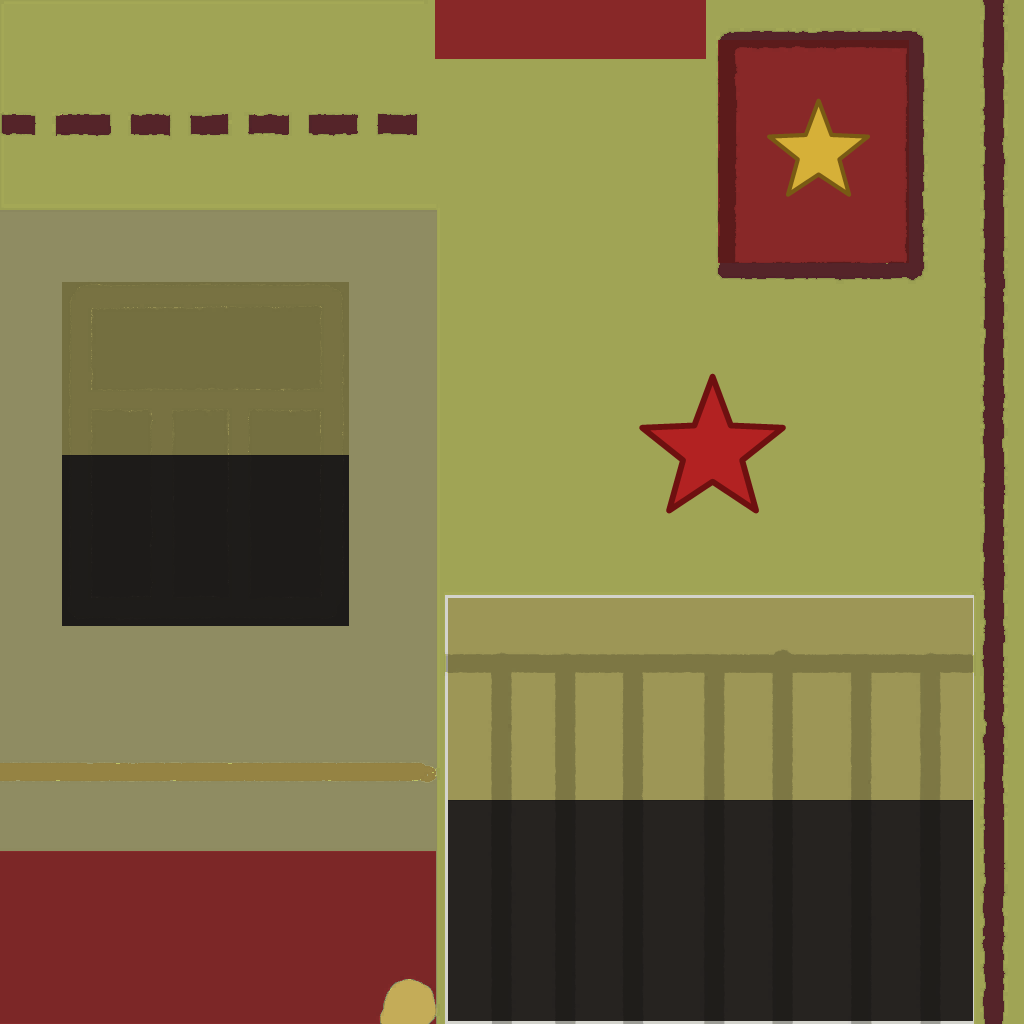
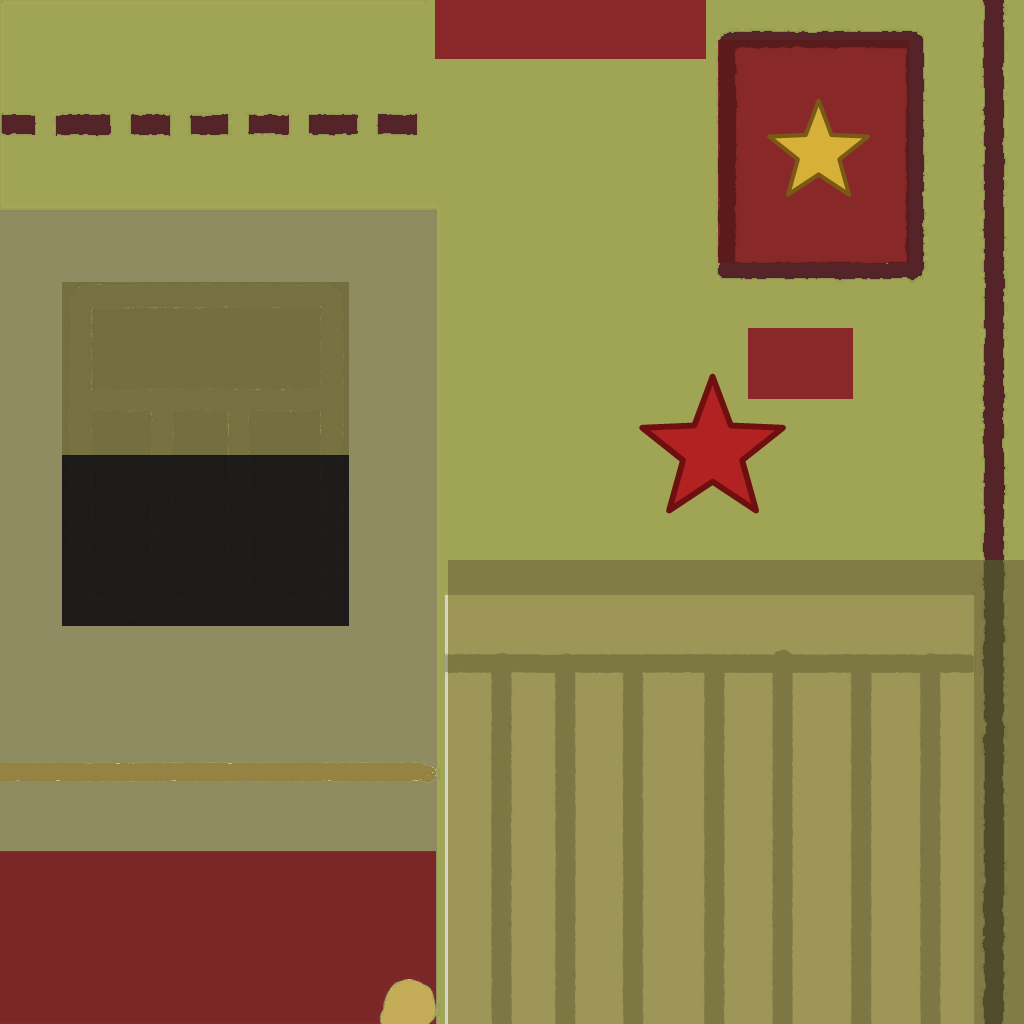
1.4.1: correcao com mapa UV do PERSONAGEM REAL (nao do boneco do passaporte)
- DESCOBERTA: personagem veste o fitMesh (4240v) e o boneco do passaporte usa
  outro mesh (3862v) com UVs diferentes - toda validacao anterior no boneco era
  invalida. Documentado como armadilha no AGENTS.md
- Novo pipeline: selfie do personagem real com camera propria do autotest +
  atlas-gradiente + shader unlit = leitura de UV do mesh nao-legivel por CPU
- Meiao do personagem sampleia faixa ate o canto (1023,1023): pintura caqui
  estendida ate a borda (adeus meiao branco); ombreira vermelha na costura do
  topo da manga (~800,360); cinto cai na zona vermelha (couro) - confirmados
  por selfie in-game em luz neutra
- Autotest: CharacterSelfie frente/costas, UnlitCharacter, mascaras de UV por
  submesh (uvmask_*.png), TestFitName

Changed region(s): [[0.4375, 0.5312, 1.0, 1.0], [0.7188, 0.3125, 0.8438, 0.4062]]

diff --git a/PeakAutoTest.cs b/PeakAutoTest.cs
@@ -29,6 +29,7 @@ public class PeakAutoTestPlugin : BaseUnityPlugin
     private ConfigEntry<bool> _testPassport;
     private ConfigEntry<string> _testFitName;
     private ConfigEntry<bool> _unlitDummy;
+    private ConfigEntry<bool> _unlitChar;
     private bool _soloClicked;
     private bool _boarded;
 
@@ -46,6 +47,7 @@ public class PeakAutoTestPlugin : BaseUnityPlugin
         _testPassport = Config.Bind("AutoTest", "TestPassport", false, "No Airport: veste o Fit_Soviet + bone, abre o passaporte, tira screenshot e fecha");
         _testFitName = Config.Bind("AutoTest", "TestFitName", "Fit_Soviet", "Nome do fit a vestir no TestPassport");
         _unlitDummy = Config.Bind("AutoTest", "UnlitDummy", false, "No TestPassport: boneco em shader unlit (leitura de UV, cores puras da textura)");
+        _unlitChar = Config.Bind("AutoTest", "UnlitCharacter", false, "No TestPassport: personagem REAL em shader unlit antes das selfies (leitura de UV)");
         if (!_enabled.Value)
         {
             Log.LogInfo("[AutoTest] desligado");
@@ -197,6 +199,10 @@ public class PeakAutoTestPlugin : BaseUnityPlugin
         else Log.LogError("[AutoTest] " + _testFitName.Value + " NAO esta no catalogo!");
         yield return new WaitForSeconds(1f);
         DumpCharacterRenderers("apos vestir");
+        DumpMeshUvMasks();
+        if (_unlitChar.Value) UnlitAllUnder(FindCharacterRoot(), "personagem");
+        yield return StartCoroutine(CharacterSelfie("char_selfie_frente.png", false));
+        yield return StartCoroutine(CharacterSelfie("char_selfie_costas.png", true));
         PassportManager pm = PassportManager.instance;
         if (pm != null)
         {
@@ -318,6 +324,154 @@ public class PeakAutoTestPlugin : BaseUnityPlugin
             }
         }
         catch (Exception e) { Log.LogWarning("[AutoTest] dump renderers falhou: " + e.Message); }
+    }
+
+    // fotografa o personagem REAL com uma camera propria (o que o jogador ve)
+    private static Transform FindCharacterRoot()
+    {
+        CustomizationRefs[] all = UnityEngine.Object.FindObjectsOfType<CustomizationRefs>();
+        for (int i = 0; i < all.Length; i++)
+        {
+            if (all[i] != null && all[i].transform.root.name.StartsWith("Character"))
+                return all[i].transform.root;
+        }
+        return null;
+    }
+
+    private static void UnlitAllUnder(Transform root, string tag)
+    {
+        try
+        {
+            if (root == null) return;
+            Shader unlit = Shader.Find("UI/Default");
+            if (unlit == null) unlit = Shader.Find("Unlit/Texture");
+            if (unlit == null) { Log.LogWarning("[AutoTest] sem shader unlit"); return; }
+            Renderer[] rr = root.GetComponentsInChildren<Renderer>(true);
+            for (int i = 0; i < rr.Length; i++)
+            {
+                Material[] ms = rr[i].materials;
+                for (int mi = 0; mi < ms.Length; mi++)
+                {
+                    if (ms[mi] == null) continue;
+                    Texture keep = ms[mi].mainTexture;
+                    ms[mi].shader = unlit;
+                    ms[mi].mainTexture = keep;
+                }
+            }
+            Log.LogInfo("[AutoTest] " + tag + " em modo unlit (" + rr.Length + " renderers)");
+        }
+        catch (Exception e) { Log.LogWarning("[AutoTest] unlit falhou: " + e.Message); }
+    }
+
+    private IEnumerator CharacterSelfie(string fileName, bool costas)
+    {
+        GameObject camGo = null;
+        CustomizationRefs target = null;
+        CustomizationRefs[] all = UnityEngine.Object.FindObjectsOfType<CustomizationRefs>();
+        for (int i = 0; i < all.Length; i++)
+        {
+            if (all[i] != null && all[i].transform.root.name.StartsWith("Character"))
+            { target = all[i]; break; }
+        }
+        if (target == null)
+        {
+            Log.LogWarning("[AutoTest] selfie: personagem nao encontrado");
+            yield break;
+        }
+        try
+        {
+            Transform root = target.transform.root;
+            camGo = new GameObject("PeakAutoTest_SelfieCam");
+            Camera cam = camGo.AddComponent<Camera>();
+            cam.depth = 99f;
+            cam.fieldOfView = 45f;
+            Vector3 center = root.position + Vector3.up * 0.62f;
+            Vector3 dir = costas ? -root.forward : root.forward;
+            camGo.transform.position = center + dir * 3.4f + Vector3.up * 0.1f;
+            camGo.transform.LookAt(center);
+        }
+        catch (Exception e)
+        {
+            Log.LogWarning("[AutoTest] selfie falhou: " + e.Message);
+            if (camGo != null) UnityEngine.Object.Destroy(camGo);
+            yield break;
+        }
+        yield return new WaitForSeconds(0.5f);
+        string shot = System.IO.Path.Combine(BepInEx.Paths.GameRootPath,
+            System.IO.Path.Combine("BepInEx", System.IO.Path.Combine("recon", fileName)));
+        ScreenCapture.CaptureScreenshot(shot);
+        Log.LogInfo("[AutoTest] selfie do personagem -> " + shot);
+        yield return new WaitForSeconds(1f);
+        UnityEngine.Object.Destroy(camGo);
+    }
+
+    // le direto do mesh: que regiao do atlas cada faixa de altura do corpo usa.
+    // Gera recon\uvmask_<quem>_sm<slot>.png (1024, fundo preto):
+    //   azul=pes, magenta=canela/meiao, amarelo=quadril, verde=torso, vermelho=gola/ombro
+    private static void DumpMeshUvMasks()
+    {
+        try
+        {
+            CustomizationRefs[] all = Resources.FindObjectsOfTypeAll<CustomizationRefs>();
+            for (int i = 0; i < all.Length; i++)
+            {
+                CustomizationRefs r = all[i];
+                if (r == null || r.mainRenderer == null || r.mainRenderer.sharedMesh == null) continue;
+                string who = r.transform.root.name.StartsWith("Character") ? "character"
+                           : (r.gameObject.scene.IsValid() ? "cena_" + r.transform.root.name : "prefab");
+                Mesh mesh = r.mainRenderer.sharedMesh;
+                Log.LogInfo("[AutoTest] uvmask " + who + ": mesh=" + mesh.name +
+                            " id=" + mesh.GetInstanceID() + " verts=" + mesh.vertexCount +
+                            " submeshes=" + mesh.subMeshCount);
+                Vector3[] verts = mesh.vertices;
+                Vector2[] uv = mesh.uv;
+                float ymin = float.MaxValue, ymax = float.MinValue;
+                for (int v = 0; v < verts.Length; v++)
+                {
+                    if (verts[v].y < ymin) ymin = verts[v].y;
+                    if (verts[v].y > ymax) ymax = verts[v].y;
+                }
+                float span = Mathf.Max(0.0001f, ymax - ymin);
+                for (int sm = 0; sm < mesh.subMeshCount; sm++)
+                {
+                    int[] tris = mesh.GetTriangles(sm);
+                    Texture2D mask = new Texture2D(1024, 1024, TextureFormat.RGB24, false);
+                    Color32[] px = new Color32[1024 * 1024];
+                    for (int p = 0; p < px.Length; p++) px[p] = new Color32(0, 0, 0, 255);
+                    for (int t = 0; t < tris.Length; t++)
+                    {
+                        int vi = tris[t];
+                        if (vi >= verts.Length || vi >= uv.Length) continue;
+                        float ny = (verts[vi].y - ymin) / span;
+                        Color32 c;
+                        if (ny < 0.08f) c = new Color32(60, 120, 255, 255);       // pes
+                        else if (ny < 0.30f) c = new Color32(255, 0, 255, 255);   // canela/meiao
+                        else if (ny < 0.52f) c = new Color32(255, 230, 40, 255);  // quadril
+                        else if (ny < 0.80f) c = new Color32(40, 220, 60, 255);   // torso
+                        else c = new Color32(255, 40, 40, 255);                   // gola/ombro
+                        int ux = Mathf.Clamp((int)(uv[vi].x * 1023f), 0, 1023);
+                        int uy = Mathf.Clamp((int)((1f - uv[vi].y) * 1023f), 0, 1023);
+                        for (int dy = -2; dy <= 2; dy++)
+                        {
+                            for (int dx = -2; dx <= 2; dx++)
+                            {
+                                int qx = ux + dx, qy = uy + dy;
+                                if (qx < 0 || qy < 0 || qx > 1023 || qy > 1023) continue;
+                                px[(1023 - qy) * 1024 + qx] = c;
+                            }
+                        }
+                    }
+                    mask.SetPixels32(px);
+                    mask.Apply();
+                    string f = System.IO.Path.Combine(BepInEx.Paths.GameRootPath,
+                        System.IO.Path.Combine("BepInEx", System.IO.Path.Combine("recon",
+                        "uvmask_" + who + "_m" + mesh.GetInstanceID() + "_sm" + sm + ".png")));
+                    System.IO.File.WriteAllBytes(f, ImageConversion.EncodeToPNG(mask));
+                    UnityEngine.Object.Destroy(mask);
+                }
+            }
+        }
+        catch (Exception e) { Log.LogWarning("[AutoTest] uvmask falhou: " + e); }
     }
 
     private static void SaveRT(RenderTexture rt, string file)

diff --git a/tools/MakeSovietTex.cs b/tools/MakeSovietTex.cs
@@ -37,13 +37,14 @@ class MakeSovietTex
             PaintRegion(atlas, 435, 0, 705, 58, 0.0, 0.70, 0.55, 0.18, true);
             // patente (pogony): vermelho dentro da moldura escura do "quadro"
             PaintRegion(atlas, 718, 40, 908, 262, 0.0, 0.70, 0.55, 0.18, true);
-            // meiao -> calca caqui (em cima) + cano de coturno preto (embaixo).
-            // O meiao usa a regiao listrada branca (confirmado no render unlit);
-            // o bloco "janela" recebe o mesmo tratamento por seguranca (sem uso visivel)
+            // meiao/canela do PERSONAGEM REAL: faixa diagonal ate o canto (1023,1023)
+            // (mapeado por selfie unlit com atlas-gradiente; o boneco do passaporte
+            // usa OUTRO mesh com UV proprio - regiao coberta por inteiro para os dois)
             PaintRegion(atlas, 62, 282, 348, 455, 0.15, 0.45, 0.60, 0.12, false);
             PaintRegion(atlas, 62, 455, 348, 625, 0.08, 0.15, 0.12, 0.05, false);
-            PaintRegion(atlas, 448, 598, 972, 800, 0.15, 0.45, 0.60, 0.12, false);
-            PaintRegion(atlas, 448, 800, 972, 1020, 0.08, 0.15, 0.12, 0.05, false);
+            PaintRegion(atlas, 448, 560, 1023, 1023, 0.15, 0.45, 0.60, 0.12, false);
+            // ombreira: a costura do topo da manga sampleia ~(800,360) - banda vermelha
+            PaintRegion(atlas, 748, 328, 852, 398, 0.0, 0.70, 0.55, 0.18, false);
             // estrela vermelha nas costas (antigo emblema de montanha)
             DrawStar(atlas, 712f, 450f, 74f,
                 Color.FromArgb(255, 178, 34, 34), Color.FromArgb(255, 110, 16, 16));

diff --git a/PeakLab.cs b/PeakLab.cs
@@ -19,7 +19,7 @@ using UnityEngine.Events;
 using UnityEngine.SceneManagement;
 using UnityEngine.UI;
 
-[BepInPlugin("nicolas.peaklab", "PeakLab", "1.4.0")]
+[BepInPlugin("nicolas.peaklab", "PeakLab", "1.4.1")]
 public class PeakLabPlugin : BaseUnityPlugin
 {
     internal static ManualLogSource Log;
@@ -111,7 +111,7 @@ public class PeakLabPlugin : BaseUnityPlugin
                 new HarmonyMethod(typeof(PeakLabPlugin).GetMethod("SetCustomForRefPrefix",
                     BindingFlags.Static | BindingFlags.NonPublic)), null);
             SceneManager.sceneLoaded += OnSceneLoaded;
-            Log.LogInfo("PeakLab 1.4.0 pronto");
+            Log.LogInfo("PeakLab 1.4.1 pronto");
         }
         catch (Exception e)
         {

diff --git a/AGENTS.md b/AGENTS.md
@@ -215,6 +215,14 @@ O daily do vanilla nunca re-sorteia nada disso.
   remap por família de cor em HSV (preserva sombreado pintado), clone-stamp para
   apagar emblemas, estrela desenhada por polígono. Iterar: gerar → build → autopilot
   `TestPassport=true` → ver `recon\passport_test.png` e `recon\dummy_rt.png`.
+- **ARMADILHA MORTAL: o boneco do passaporte usa OUTRO MESH.** O personagem real
+  veste o `fitMesh` da option (MainMesh 4240 verts, id 438378, NAO legivel por CPU)
+  e o `PlayerCustomizationDummy` continua com o MainMesh base (3862 verts, id 43392)
+  so trocando materiais. Mesmos nomes, UVs DIFERENTES (ex.: o meiao do personagem
+  sampleia a faixa diagonal ate o canto (1023,1023); o do boneco, y598-800).
+  Validar textura NO BONECO NAO VALE NADA - validar com selfie do personagem real
+  (autotest: `TestPassport` tira `recon\char_selfie_frente/costas.png` com camera
+  propria; `UnlitCharacter=true` + atlas-gradiente = leitura de UV do personagem).
 - **Pipeline de mapeamento UV** (para saber que região do atlas cai em cada parte
   do corpo): vestir o boneco com `UVGradient_atlas.png` (R=coluna, G=linha, B=0
   como marca d'água), `UnlitDummy=true` no autotest (troca shader por UI/Default →
